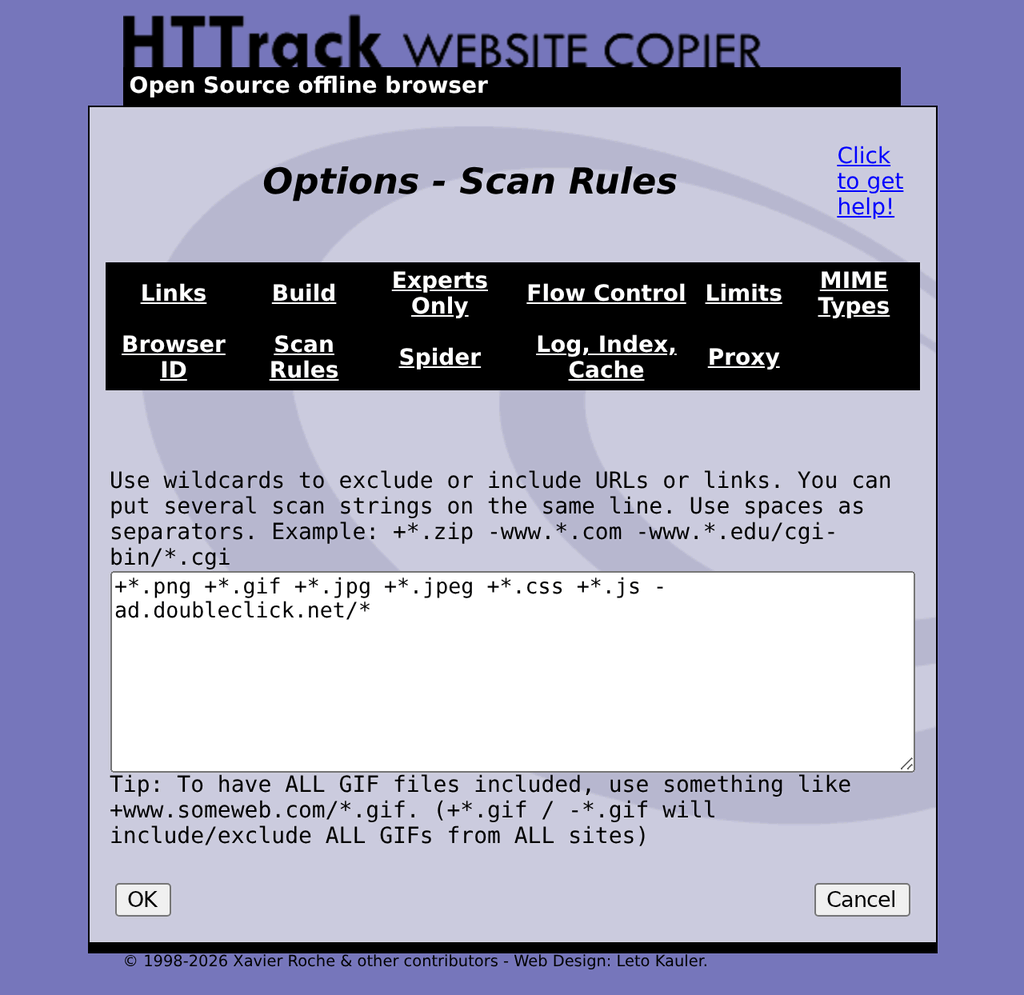
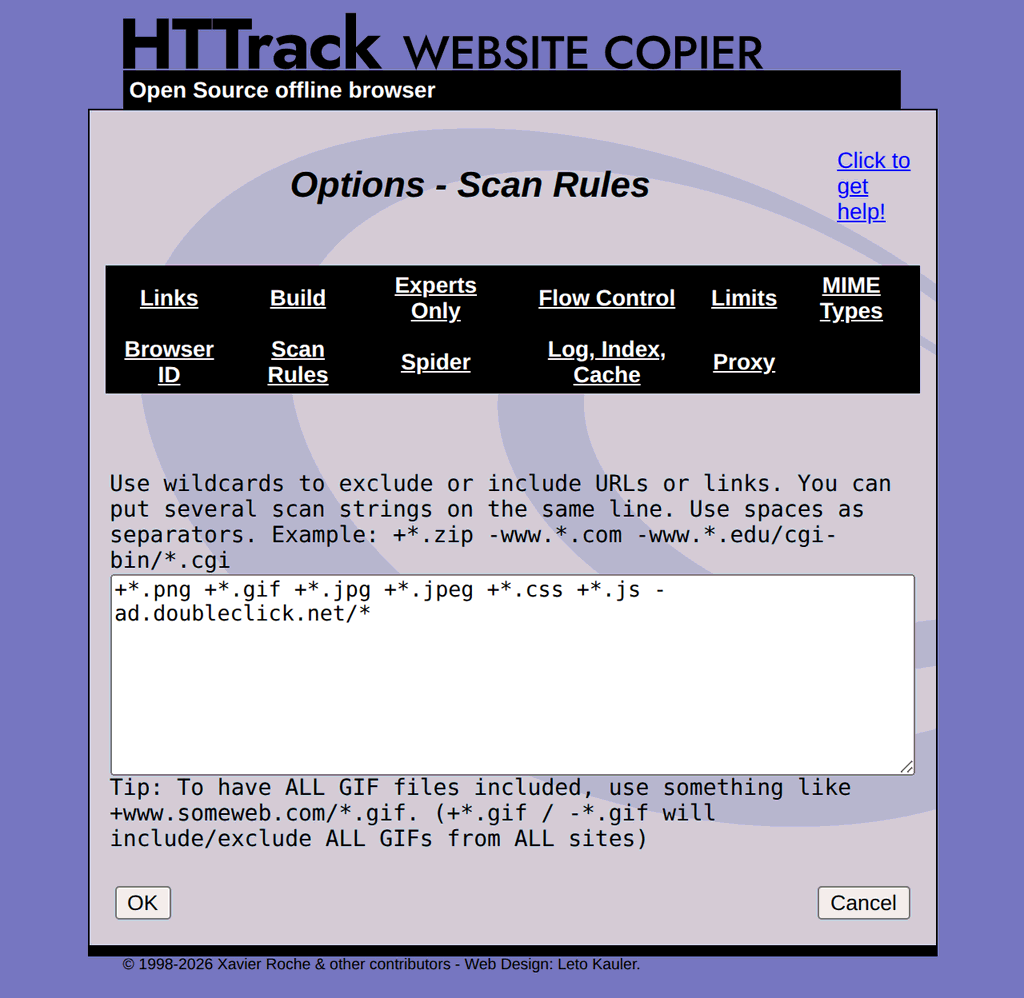
Reshoot the WebHTTrack screenshots in the GUI guide
The set was captured at 3.49-14, before the masthead wordmark and the rings
background became SVGs (#916, #910) and before the welcome page learned to
mark the language in force (#1086).

diff --git a/html/guide.html b/html/guide.html
@@ -122,7 +122,7 @@ data-for="droid">Tap <b>Next</b></span> to create a project, or open one you alr
 
 <figure>
 	<img data-for="win" src="img/guide-win-start.png" alt="WinHTTrack welcome pane" width="1040" height="744">
-	<img data-for="web" src="img/guide-web-start.png" alt="WebHTTrack welcome page" width="1024" height="388">
+	<img data-for="web" src="img/guide-web-start.png" alt="WebHTTrack welcome page" width="1024" height="390">
 	<img data-for="droid" src="img/guide-droid-start.png" alt="HTTrack for Android welcome screen" width="600" height="1300">
 	<figcaption>The welcome screen.</figcaption>
 </figure>
@@ -143,7 +143,7 @@ together in the list.</p>
 
 <figure>
 	<img data-for="win" src="img/guide-win-project-name.png" alt="WinHTTrack project name, category and base path" width="1040" height="744">
-	<img data-for="web" src="img/guide-web-project-name.png" alt="WebHTTrack project name, category and base path" width="1024" height="346">
+	<img data-for="web" src="img/guide-web-project-name.png" alt="WebHTTrack project name, category and base path" width="1024" height="348">
 	<img data-for="droid" src="img/guide-droid-project-name.png" alt="Android project name, category and base path" width="600" height="1300">
 	<figcaption>Project name, category, and where the files go.</figcaption>
 </figure>
@@ -162,7 +162,7 @@ keep their links to each other.</p>
 
 <figure>
 	<img data-for="win" src="img/guide-win-project-setup.png" alt="WinHTTrack action and web addresses" width="1040" height="744">
-	<img data-for="web" src="img/guide-web-project-setup.png" alt="WebHTTrack action and web addresses" width="1024" height="496">
+	<img data-for="web" src="img/guide-web-project-setup.png" alt="WebHTTrack action and web addresses" width="1024" height="498">
 	<img data-for="droid" src="img/guide-droid-project-setup.png" alt="Android web address and action" width="600" height="1300">
 	<figcaption>The addresses to copy, and what to do with them.</figcaption>
 </figure>
@@ -217,7 +217,7 @@ port, you point your browser at it as a proxy and click the link or the submit b
 usual, and the address the browser asks for is added to the project.</p>
 
 <figure data-for="web">
-	<img data-for="web" src="img/guide-web-add-url.png" alt="WebHTTrack add-a-URL dialog" width="1024" height="634">
+	<img data-for="web" src="img/guide-web-add-url.png" alt="WebHTTrack add-a-URL dialog" width="1024" height="605">
 	<figcaption>Adding a single address, with an optional login.</figcaption>
 </figure>
 
@@ -246,7 +246,7 @@ mirror straight away.</p>
 
 <figure data-for="win web">
 	<img data-for="win" src="img/guide-win-ready.png" alt="WinHTTrack connection settings before starting" width="1040" height="744">
-	<img data-for="web" src="img/guide-web-ready.png" alt="WebHTTrack ready to start" width="1024" height="508">
+	<img data-for="web" src="img/guide-web-ready.png" alt="WebHTTrack ready to start" width="1024" height="492">
 	<figcaption>The last screen before the mirror runs.</figcaption>
 </figure>
 
@@ -259,7 +259,7 @@ polite.</p>
 
 <figure>
 	<img data-for="win" src="img/guide-win-progress.png" alt="WinHTTrack mirror in progress" width="1040" height="744">
-	<img data-for="web" src="img/guide-web-progress.png" alt="WebHTTrack mirror in progress" width="1024" height="742">
+	<img data-for="web" src="img/guide-web-progress.png" alt="WebHTTrack mirror in progress" width="1024" height="744">
 	<img data-for="droid" src="img/guide-droid-progress.png" alt="Android mirror in progress" width="600" height="1300">
 	<figcaption>A crawl in flight.</figcaption>
 </figure>
@@ -279,7 +279,7 @@ mirrored pages are rewritten to point at each other, so it browses offline in an
 
 <figure>
 	<img data-for="win" src="img/guide-win-finished.png" alt="WinHTTrack mirror complete" width="1040" height="744">
-	<img data-for="web" src="img/guide-web-finished.png" alt="WebHTTrack mirror complete" width="1024" height="487">
+	<img data-for="web" src="img/guide-web-finished.png" alt="WebHTTrack mirror complete" width="1024" height="489">
 	<img data-for="droid" src="img/guide-droid-finished.png" alt="Android mirror complete" width="600" height="1300">
 	<figcaption>Done.</figcaption>
 </figure>
@@ -328,7 +328,7 @@ interface shows it, and the command-line option it corresponds to.</p>
 
 <figure>
 	<img data-for="win" src="img/guide-win-opt-scan-rules.png" alt="WinHTTrack Scan Rules tab" width="524" height="448">
-	<img data-for="web" src="img/guide-web-opt-scan-rules.png" alt="WebHTTrack Scan Rules tab" width="1024" height="995">
+	<img data-for="web" src="img/guide-web-opt-scan-rules.png" alt="WebHTTrack Scan Rules tab" width="1024" height="998">
 	<img data-for="droid" src="img/guide-droid-opt-scan-rules.png" alt="Android Scan Rules tab" width="600" height="1300">
 </figure>
 
@@ -365,7 +365,7 @@ is on the <a href="filters.html">filter page</a>.</p>
 
 <figure>
 	<img data-for="win" src="img/guide-win-opt-limits.png" alt="WinHTTrack Limits tab" width="524" height="448">
-	<img data-for="web" src="img/guide-web-opt-limits.png" alt="WebHTTrack Limits tab" width="1024" height="1016">
+	<img data-for="web" src="img/guide-web-opt-limits.png" alt="WebHTTrack Limits tab" width="1024" height="1019">
 	<img data-for="droid" src="img/guide-droid-opt-limits.png" alt="Android Limits tab" width="600" height="1300">
 </figure>
 
@@ -443,7 +443,7 @@ bottom are the ones that keep you welcome.</p>
 
 <figure>
 	<img data-for="win" src="img/guide-win-opt-flow-control.png" alt="WinHTTrack Flow Control tab" width="524" height="448">
-	<img data-for="web" src="img/guide-web-opt-flow-control.png" alt="WebHTTrack Flow Control tab" width="1024" height="910">
+	<img data-for="web" src="img/guide-web-opt-flow-control.png" alt="WebHTTrack Flow Control tab" width="1024" height="866">
 	<img data-for="droid" src="img/guide-droid-opt-flow-control.png" alt="Android Flow Control tab" width="600" height="1300">
 </figure>
 
@@ -486,7 +486,7 @@ bottom are the ones that keep you welcome.</p>
 
 <figure>
 	<img data-for="win" src="img/guide-win-opt-links.png" alt="WinHTTrack Links tab" width="524" height="448">
-	<img data-for="web" src="img/guide-web-opt-links.png" alt="WebHTTrack Links tab" width="1024" height="781">
+	<img data-for="web" src="img/guide-web-opt-links.png" alt="WebHTTrack Links tab" width="1024" height="752">
 	<img data-for="droid" src="img/guide-droid-opt-links.png" alt="Android Links tab" width="600" height="1300">
 </figure>
 
@@ -523,7 +523,7 @@ bottom are the ones that keep you welcome.</p>
 
 <figure>
 	<img data-for="win" src="img/guide-win-opt-build.png" alt="WinHTTrack Build tab" width="524" height="448">
-	<img data-for="web" src="img/guide-web-opt-build.png" alt="WebHTTrack Build tab" width="1024" height="986">
+	<img data-for="web" src="img/guide-web-opt-build.png" alt="WebHTTrack Build tab" width="1024" height="979">
 	<img data-for="droid" src="img/guide-droid-opt-build.png" alt="Android Build tab" width="600" height="1300">
 </figure>
 
@@ -589,7 +589,7 @@ bottom are the ones that keep you welcome.</p>
 
 <figure>
 	<img data-for="win" src="img/guide-win-opt-browser-id.png" alt="WinHTTrack Browser ID tab" width="524" height="448">
-	<img data-for="web" src="img/guide-web-opt-browser-id.png" alt="WebHTTrack Browser ID tab" width="1024" height="706">
+	<img data-for="web" src="img/guide-web-opt-browser-id.png" alt="WebHTTrack Browser ID tab" width="1024" height="658">
 	<img data-for="droid" src="img/guide-droid-opt-browser-id.png" alt="Android Browser ID tab" width="600" height="1300">
 </figure>
 
@@ -629,7 +629,7 @@ bottom are the ones that keep you welcome.</p>
 
 <figure>
 	<img data-for="win" src="img/guide-win-opt-spider.png" alt="WinHTTrack Spider tab" width="524" height="448">
-	<img data-for="web" src="img/guide-web-opt-spider.png" alt="WebHTTrack Spider tab" width="1024" height="1557">
+	<img data-for="web" src="img/guide-web-opt-spider.png" alt="WebHTTrack Spider tab" width="1024" height="1544">
 	<img data-for="droid" src="img/guide-droid-opt-spider.png" alt="Android Spider tab" width="600" height="1300">
 </figure>
 
@@ -716,7 +716,7 @@ bottom are the ones that keep you welcome.</p>
 
 <figure>
 	<img data-for="win" src="img/guide-win-opt-proxy.png" alt="WinHTTrack Proxy tab" width="524" height="448">
-	<img data-for="web" src="img/guide-web-opt-proxy.png" alt="WebHTTrack Proxy tab" width="1024" height="762">
+	<img data-for="web" src="img/guide-web-opt-proxy.png" alt="WebHTTrack Proxy tab" width="1024" height="763">
 	<img data-for="droid" src="img/guide-droid-opt-proxy.png" alt="Android Proxy tab" width="600" height="1300">
 </figure>
 
@@ -753,7 +753,7 @@ bottom are the ones that keep you welcome.</p>
 
 <figure>
 	<img data-for="win" src="img/guide-win-opt-log-index-cache.png" alt="WinHTTrack Log, Index, Cache tab" width="524" height="448">
-	<img data-for="web" src="img/guide-web-opt-log-index-cache.png" alt="WebHTTrack Log, Index, Cache tab" width="1024" height="1278">
+	<img data-for="web" src="img/guide-web-opt-log-index-cache.png" alt="WebHTTrack Log, Index, Cache tab" width="1024" height="1269">
 	<img data-for="droid" src="img/guide-droid-opt-log-index-cache.png" alt="Android Log, Index, Cache tab" width="600" height="1300">
 </figure>
 
@@ -821,7 +821,7 @@ bottom are the ones that keep you welcome.</p>
 
 <figure>
 	<img data-for="win" src="img/guide-win-opt-mime-types.png" alt="WinHTTrack MIME types tab" width="524" height="448">
-	<img data-for="web" src="img/guide-web-opt-mime-types.png" alt="WebHTTrack MIME types tab" width="1024" height="1046">
+	<img data-for="web" src="img/guide-web-opt-mime-types.png" alt="WebHTTrack MIME types tab" width="1024" height="1050">
 	<img data-for="droid" src="img/guide-droid-opt-mime-types.png" alt="Android MIME types tab" width="600" height="1300">
 </figure>
 

diff --git a/tools/screenshots.md b/tools/screenshots.md
@@ -44,5 +44,5 @@ the walk only works in English.
 - An existing mirror at the base path finishes from cache in no time, which turns
   the progress shot into a second copy of the finished screen. The walk runs under
   a throwaway `$HOME`, which also keeps the host's own projects out of the shots.
-- The language dropdown on the welcome screen shoots blank: its first entry is an
-  empty "leave as is" option, and that is what a first run selects.
+- Shoot on CI, not on a workstation: the pages ask for Trebuchet/Verdana, no runner
+  or box has either, and the fallback's metrics decide where every label wraps.
